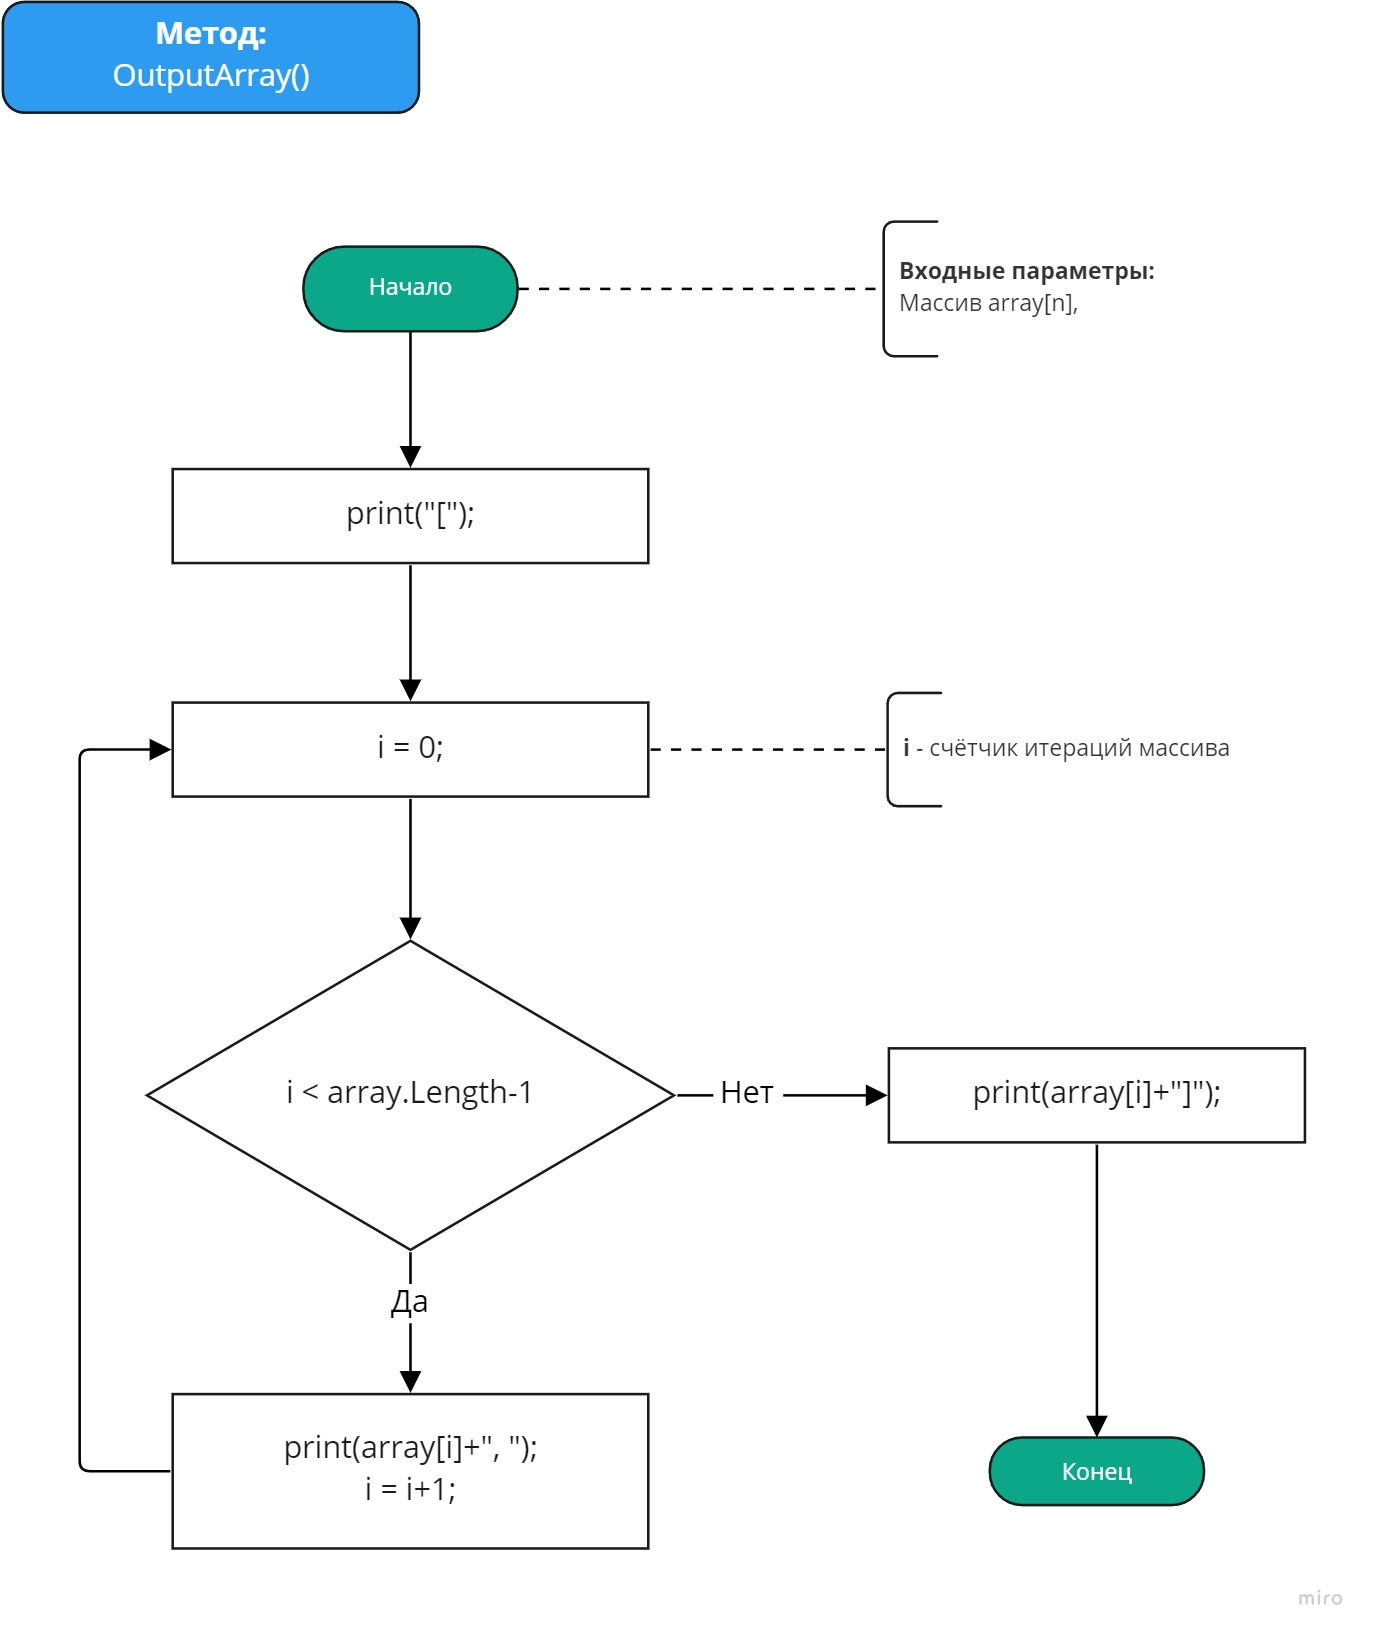
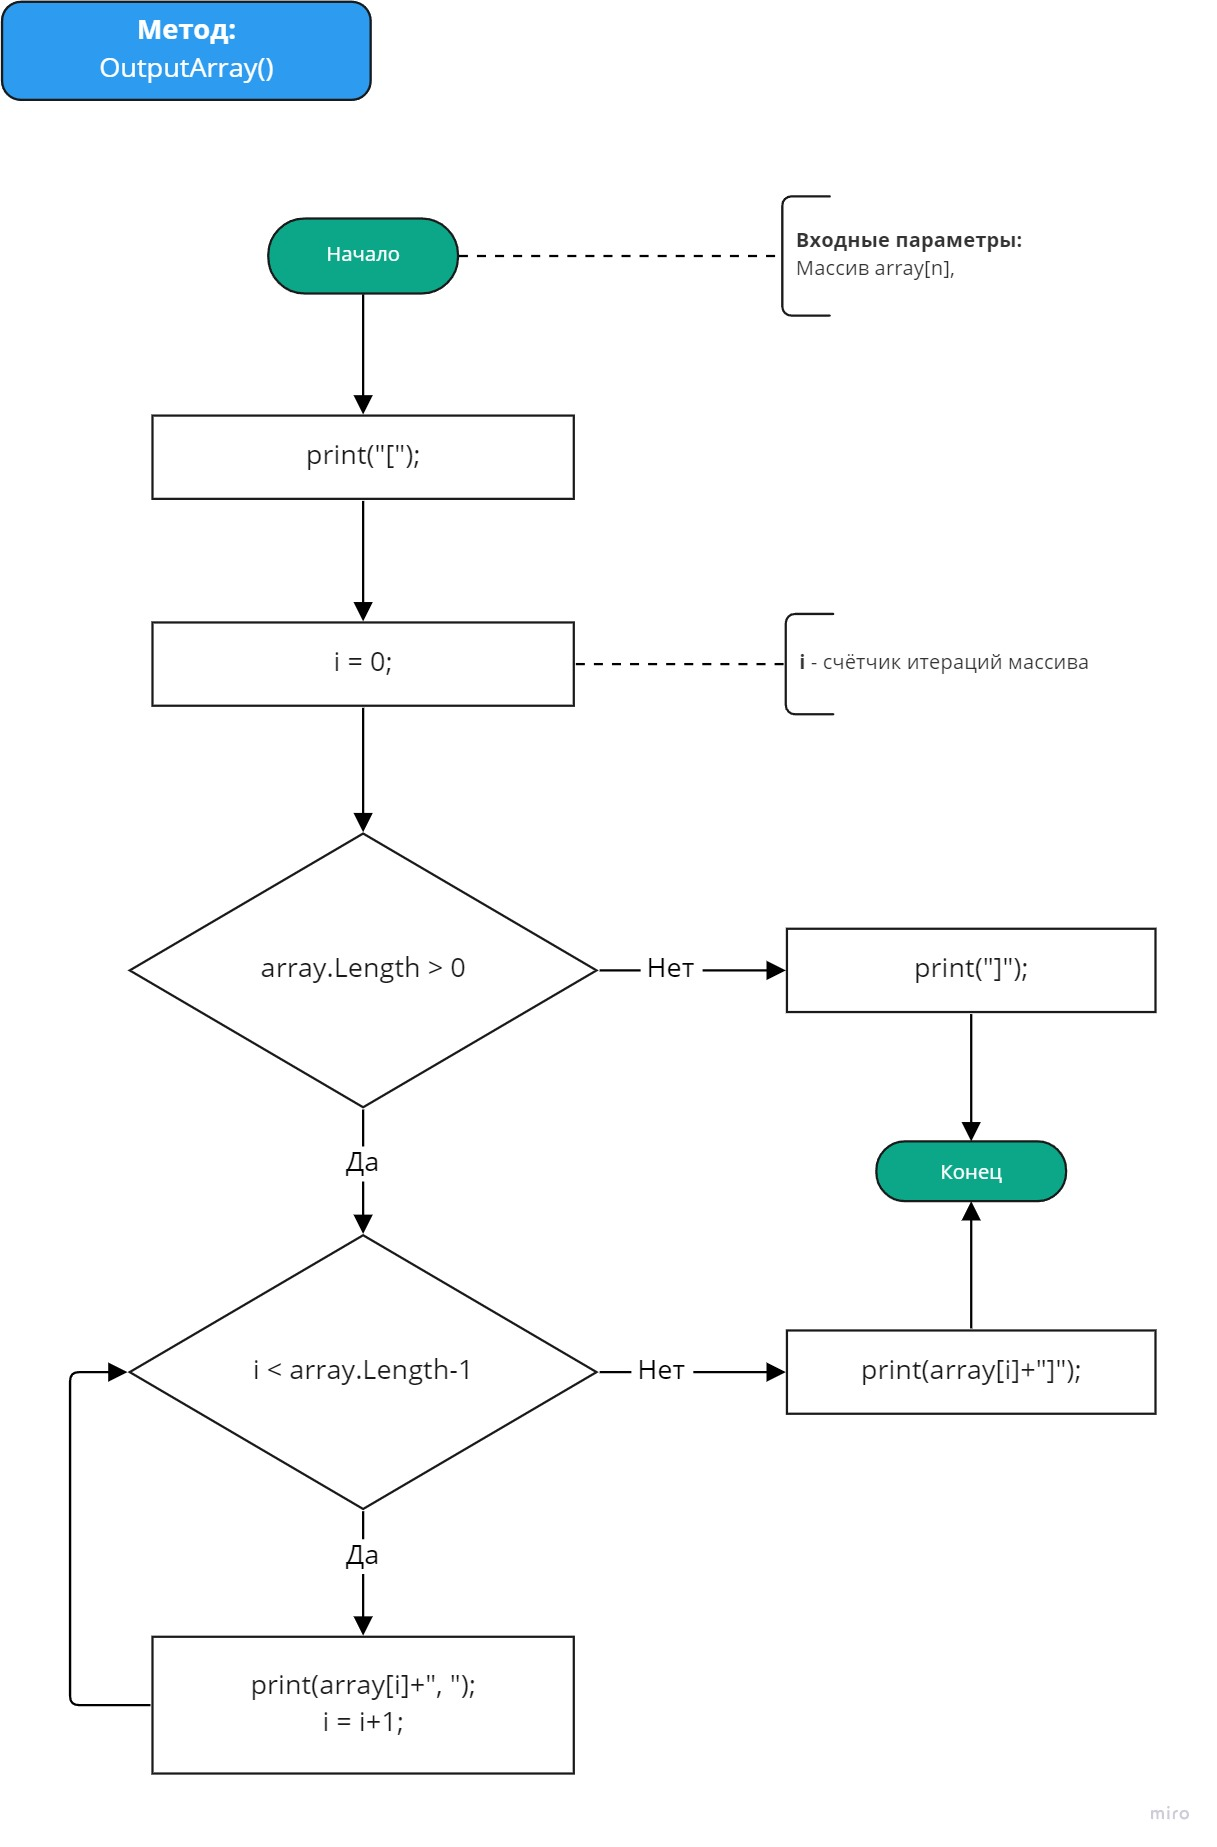
The block diagram has been changed, taking into account a possible empty array and a comment to it

diff --git a/README.md b/README.md
@@ -43,9 +43,10 @@
    - **метод печати массива.**
 
      1. Выводит в консоль открывающую скобку начала массива.
-     2. В цикле выводит каждый, кроме последнего, элемент массива с отделяющей его запятой
-     3. Выводит последний элемент массива и закрывающую скобку окончания массива.
-     4. <img src="./img/printArray.jpg">
+     2. Проверяет, не равна ли длина массива нулю. Если равна, то печатает закрывающую скобку и завершает свою работу.
+     3. Если длина массива больше нуля, то в цикле выводит каждый, кроме последнего, элемент массива с отделяющей его запятой
+     4. Выводит последний элемент массива и закрывающую скобку окончания массива, завершает свою работу.
+     5. <img src="./img/printArray.jpg">
 
 3. Написана программа по данному алгоритму.
 4. Оформил ввод массива отдельным методом.
